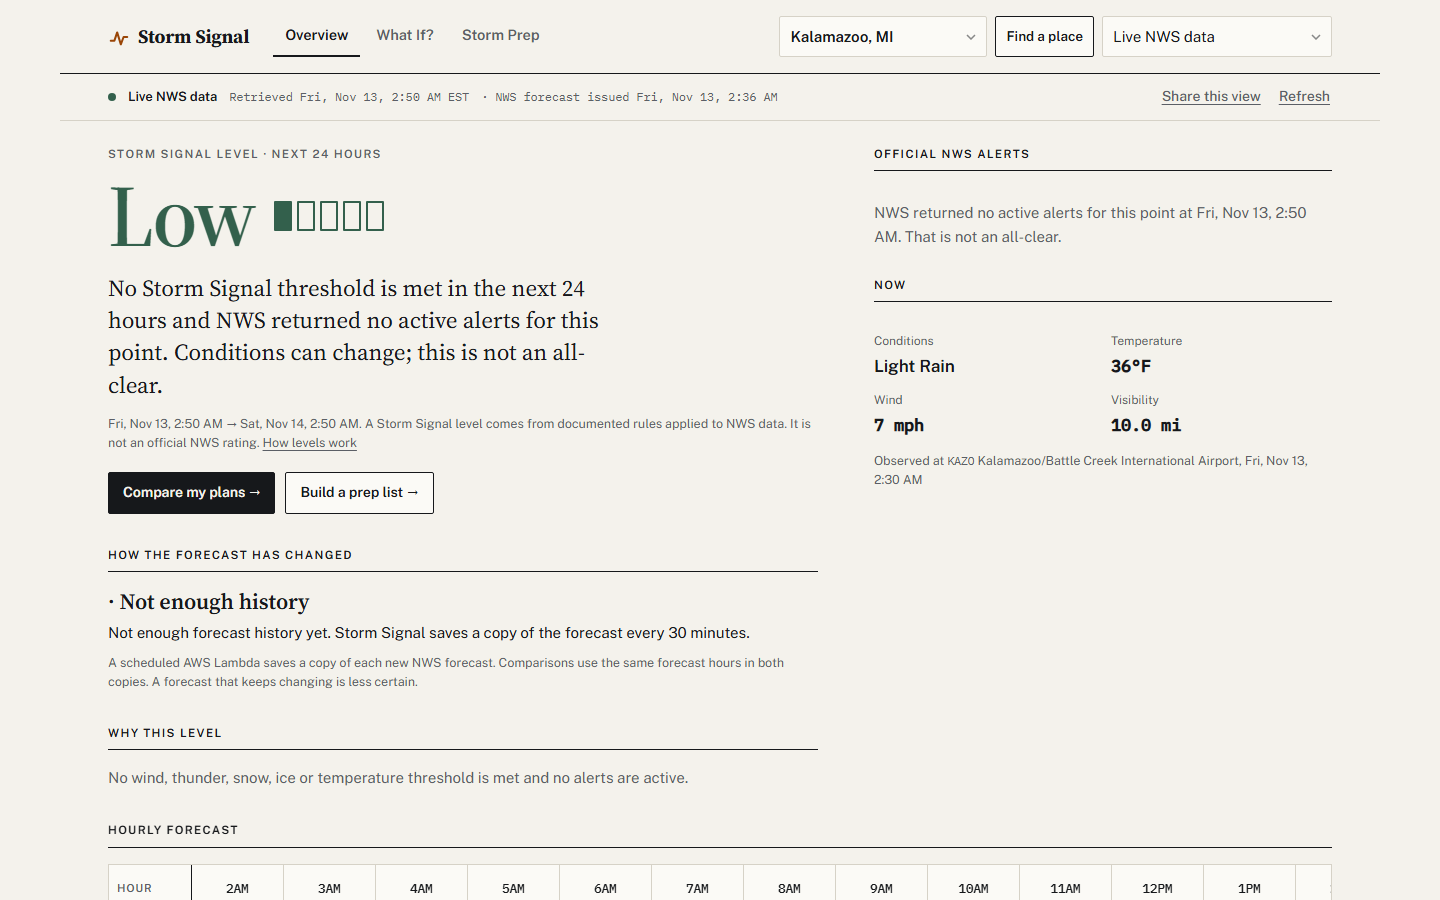
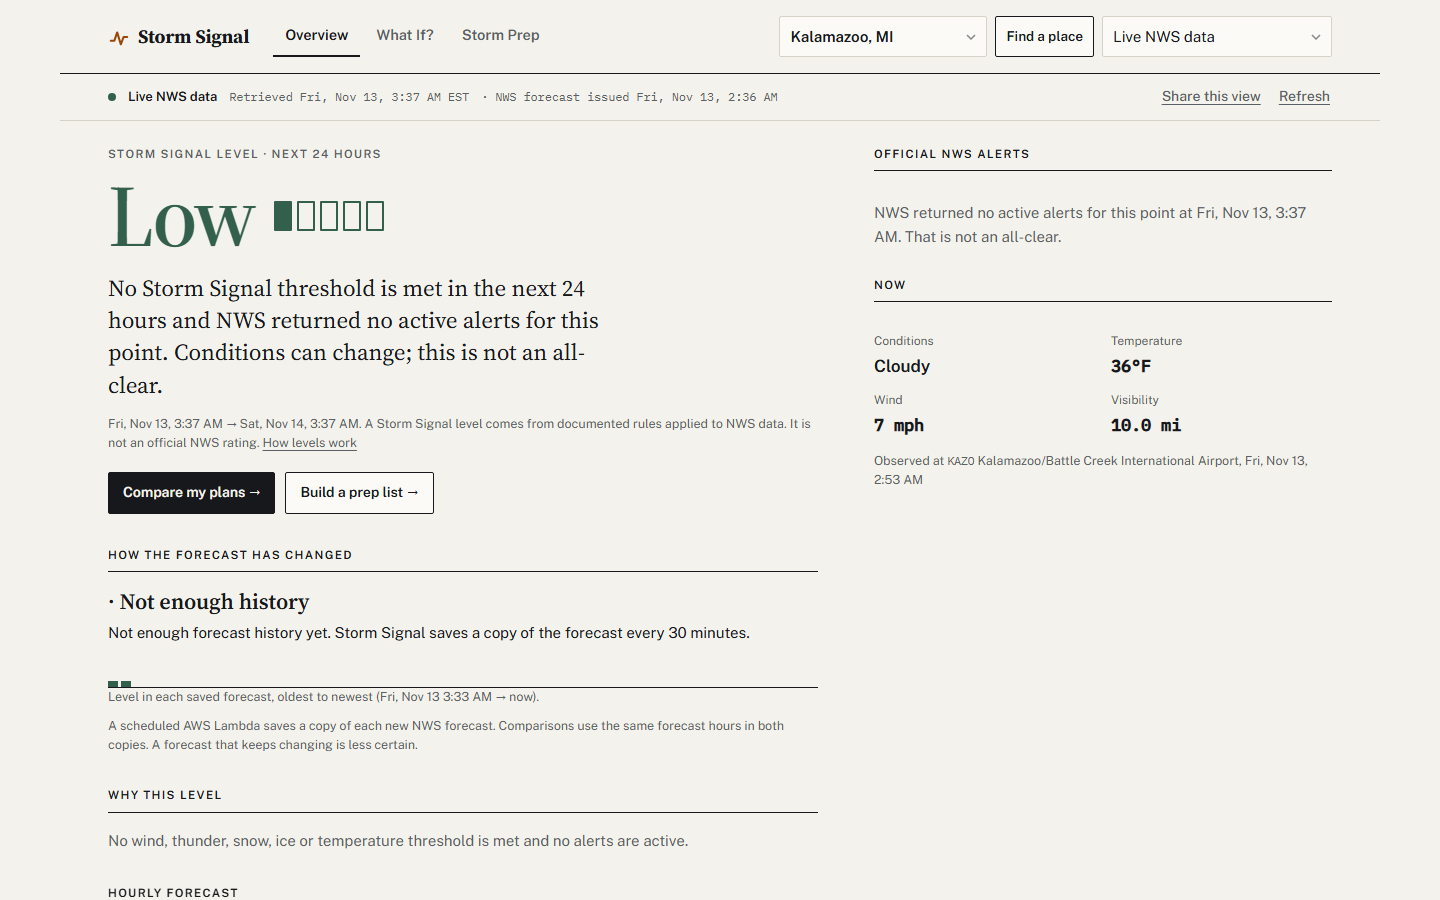
Deploy to AWS: make reserved concurrency optional, record live URL
The account's Lambda concurrency limit (10) does not allow reserved
concurrency, so the first deploy rolled back. Reserved concurrency is
now an optional parameter (off by default). Records the deployed URL,
verification results and regenerated screenshots, and renames the
drift panel's empty state to "Collecting history".

diff --git a/src/Drift.tsx b/src/Drift.tsx
@@ -11,7 +11,7 @@ const TREND: Record<string, { word: string; glyph: string }> = {
   better: { word: "Trending better", glyph: "↘" },
   stable: { word: "Steady", glyph: "→" },
   shifting: { word: "Shifting", glyph: "↕" },
-  unknown: { word: "Not enough history", glyph: "·" },
+  unknown: { word: "Collecting history", glyph: "·" },
 };
 
 export function DriftPanel({

diff --git a/docs/submission.md b/docs/submission.md
@@ -15,7 +15,7 @@
 
 ## Storm Signal: one storm, different decisions
 
-**Live app:** [CloudFront URL] · **Demo (2:45):** [YouTube/Vimeo URL] · **Code:** https://github.com/kcasko/stormsignal (MIT)
+**Live app:** https://d3p9tcn7282g7r.cloudfront.net · **Demo (2:45):** [YouTube/Vimeo URL] · **Code:** https://github.com/kcasko/stormsignal (MIT)
 
 ### The problem
 
@@ -47,7 +47,7 @@ Storm Signal turns live National Weather Service data for **any U.S. place** (ZI
 ![Storm Signal architecture](screenshots/00-architecture.png)
 
 - **Amazon CloudFront** serves the React/TypeScript app from a **private Amazon S3** bucket (Origin Access Control) and routes `/api/*` to the API, so there's one HTTPS origin, no CORS, and no credentials in the browser.
-- **Amazon API Gateway (HTTP API)** with route throttling invokes **AWS Lambda** (Node.js 22, arm64, reserved concurrency 3).
+- **Amazon API Gateway (HTTP API)** with route throttling invokes **AWS Lambda** (Node.js 22, arm64).
 - The Lambda calls five NWS endpoints in parallel (point metadata, hourly forecast, gridpoint data for gusts, thunder, snow and ice, the latest station observation, and active alerts). It allow-lists every upstream URL, enforces timeouts and size caps, converts units, and runs the deterministic risk engine. It caches in memory and coalesces duplicate requests to respect NWS.
 - **Amazon EventBridge Scheduler** invokes a second **Lambda** every 30 minutes. It saves each *new* NWS forecast issuance for the listed cities to **Amazon DynamoDB** (on-demand, 72-hour TTL). The weather Lambda queries that history so the browser can compare the same forecast hours across issuances. Each Lambda has its own least-privilege role (Put vs. Query).
 - **Any U.S. place** without a third-party service: ZIPs and city names resolve from public-domain U.S. Census Gazetteer data bundled in the Lambda, and only full street addresses go to the U.S. Census Geocoder. "Use my location" is rounded to about 1 km in the browser, and searches are never logged.
@@ -66,7 +66,7 @@ The pattern underneath Storm Signal fits any "public data → explained decision
 3. **A deterministic rule engine shared by Lambda and the browser,** where every rule returns *evidence* (value, threshold, time window) instead of a bare score, and missing data yields "Unknown", never the safest answer.
 4. **A scheduled snapshot plus TTL table** turns any "latest only" public API into a history you can reason about ("is this forecast settling or still moving?"), for pennies.
 5. **Published rules** (`/api/rules`): others can audit the thresholds or reuse them in their own tools.
-6. **One `template.yaml`, one `sam deploy`:** throttling, reserved concurrency, log retention, an alarm and a budget included.
+6. **One `template.yaml`, one `sam deploy`:** throttling, log retention, an alarm and a budget included.
 
 Swap `nwsClient` and the rule tables, and the rest carries over. Code, template and rules: https://github.com/kcasko/stormsignal (MIT).
 

diff --git a/docs/architecture.md b/docs/architecture.md
@@ -8,7 +8,7 @@ Browser ──HTTPS──▶ Amazon CloudFront ──(OAC, SigV4)──▶ Amazo
                         └── /api/* ──HTTPS──▶ API Gateway HTTP API (throttled 5 rps / burst 10)
                                                    │
                                                    ▼
-                                         AWS Lambda (Node 22, arm64, ≤3 concurrent)
+                                         AWS Lambda (Node 22, arm64)            
                                            nwsClient ─▶ api.weather.gov
                                            riskEngine ─▶ assessment
                                                    │
@@ -102,9 +102,9 @@ Forecast wording (e.g. "Thunderstorms", "Freezing Rain", "Blizzard") is only use
 - Each Lambda has its own role. Weather: write its own logs, `dynamodb:Query` on the history table. Snapshot: write its own logs, `PutItem`/`Query` on the history table. Nothing else.
 - Lambdas only call fixed `api.weather.gov` URL shapes and the fixed Census Geocoder endpoint (no user-supplied URLs). Locations are an allow-listed id or a validated U.S. `pt:lat,lon` with at most 3 decimals. GET only.
 - CloudFront Managed-SecurityHeadersPolicy (HSTS, nosniff, frame-options, referrer-policy).
-- Throttling (HTTP API 5 rps / burst 10) plus reserved concurrency of 3 bound cost and NWS load. These limit spend but are **not** a hard billing cap. Use the optional budget alert.
+- HTTP API throttling (5 rps / burst 10) bounds cost and NWS load, and the account's own Lambda concurrency limit is a hard ceiling. These limit spend but are **not** a hard billing cap. Use the optional budget alert.
 - Checklist state stays in the browser (`localStorage`). There are no accounts and no server-side user data. "Use my location" is opt-in and rounded to about 1 km in the browser. Search text is never logged or stored, and custom points are logged only as `point`. Forecast history holds NWS data for the listed cities only.
-- Reserved concurrency: weather 3, snapshot 1. The snapshot runs 48 times a day for 9 cities and skips cities whose NWS forecast hasn't been reissued.
+- Reserved concurrency is an optional parameter (`WeatherReservedConcurrency`, default off). New AWS accounts have a concurrency limit of 10, and AWS keeps all 10 unreserved, so the first deploy failed when it tried to reserve 3 and 1 (Nov 13). The snapshot runs once every 30 minutes with a 2-minute timeout, so runs can't overlap. It visits 9 cities and skips any whose NWS forecast hasn't been reissued.
 
 ## Teardown
 

diff --git a/docs/testing.md b/docs/testing.md
@@ -67,8 +67,15 @@ The bundled Lambda (`build/handler.mjs`) was invoked directly. It returned 200 w
 - Source links: every weather.gov and ready.gov link returned HTTP 200. The FHWA link was updated to its canonical `highways.dot.gov/traffic-info`.
 - Fixed during browser testing: a one-render flash of previous live data under the "Simulated" banner when switching sources (the data hook now keys data to location + source).
 
+## Deployed verification (Nov 13, us-east-1)
+
+- `https://d3p9tcn7282g7r.cloudfront.net`: the page returns 200 over HTTPS, HTTP redirects with 301, and HSTS, nosniff, X-Frame-Options and Referrer-Policy headers are present. Direct S3 object access returns 403 (private bucket, OAC only).
+- `/api/health` returns 200. `/api/weather?location=kalamazoo` returns live NWS data with all four sources available. `/api/geocode?q=49007` and `/api/rules` return 200. A London point returns 400.
+- The EventBridge schedule is ENABLED. Its first run saved snapshots for all 9 cities, and a manual run saved only a city with a new NWS issuance (the rest were skipped). DynamoDB TTL is ENABLED, and `/api/history` returns `tracked: true`.
+- `e2e/live.spec.ts` against the public URL: 4/4 passed. Screenshots in `docs/screenshots/` were regenerated from the deployed site.
+- First deploy attempt failed: the account's Lambda concurrency limit is 10, so reserved concurrency was rejected. It rolled back cleanly, reserved concurrency became an optional parameter, and the redeploy succeeded.
+
 ## Not yet verified
 
-- Deployed AWS stack and public CloudFront URL (not deployed).
 - Manual screen-reader pass (NVDA/VoiceOver). Automated axe checks pass, but that isn't a full audit.
 - A real active severe-weather alert (none was active during testing; simulated scenarios cover this path).

diff --git a/docs/PROGRESS.md b/docs/PROGRESS.md
@@ -71,3 +71,13 @@ Built all seven additions Keith approved:
 7. **`/api/rules`** JSON catalog.
 
 Verified: 61 unit tests, 38 Playwright tests (incl. offline reload and print), `sam validate --lint` (us-east-1), live routes against NWS and Census (ZIP 49007, "Boulder, CO", 1600 Pennsylvania Ave; a London point rejected), and the local snapshot job writing history for all nine cities. Still **not deployed**.
+
+## Published and deployed — November 13
+
+- Public repo: https://github.com/kcasko/stormsignal (MIT, default branch `main`). The history was scanned for secrets and personal data before the push.
+- Deployed `storm-signal` to us-east-1, account verified with STS. **Live: https://d3p9tcn7282g7r.cloudfront.net**
+- First attempt failed because the account's Lambda concurrency limit is 10 (no reserved concurrency allowed). It rolled back cleanly; reserved concurrency is now an optional parameter (off), and the redeploy succeeded.
+- Verified: site, security headers, HTTP→HTTPS, private S3 (403), all API routes, schedule enabled and saving snapshots, DynamoDB TTL, `e2e/live.spec.ts` 4/4.
+- Not set: the optional budget alert (needs an email; pass `-BudgetEmail` to `deploy.ps1`).
+
+Remaining (Keith): record and upload the video, publish the Builder Center article, submit before Nov 16, 1:00 PM PT.

diff --git a/README.md b/README.md
@@ -4,6 +4,8 @@
 
 **Know the threat. Understand the impact. Prepare before it hits.**
 
+**Live:** https://d3p9tcn7282g7r.cloudfront.net
+
 A serverless weather decision-support app. It turns live National Weather Service forecasts and alerts into an explained risk level, a What If? comparison of plans, and a hazard-specific preparation checklist. Built for the AWS Builder Center Weekend Challenge "No Pipeline, No Problem" (Nov 13–16, 2026).
 
 - **Overview:** Storm Signal level (Low → Critical, or Unknown) for the next 24 h, with the evidence behind it and **what would change it**; official NWS alerts shown separately; current observation; hourly table.
